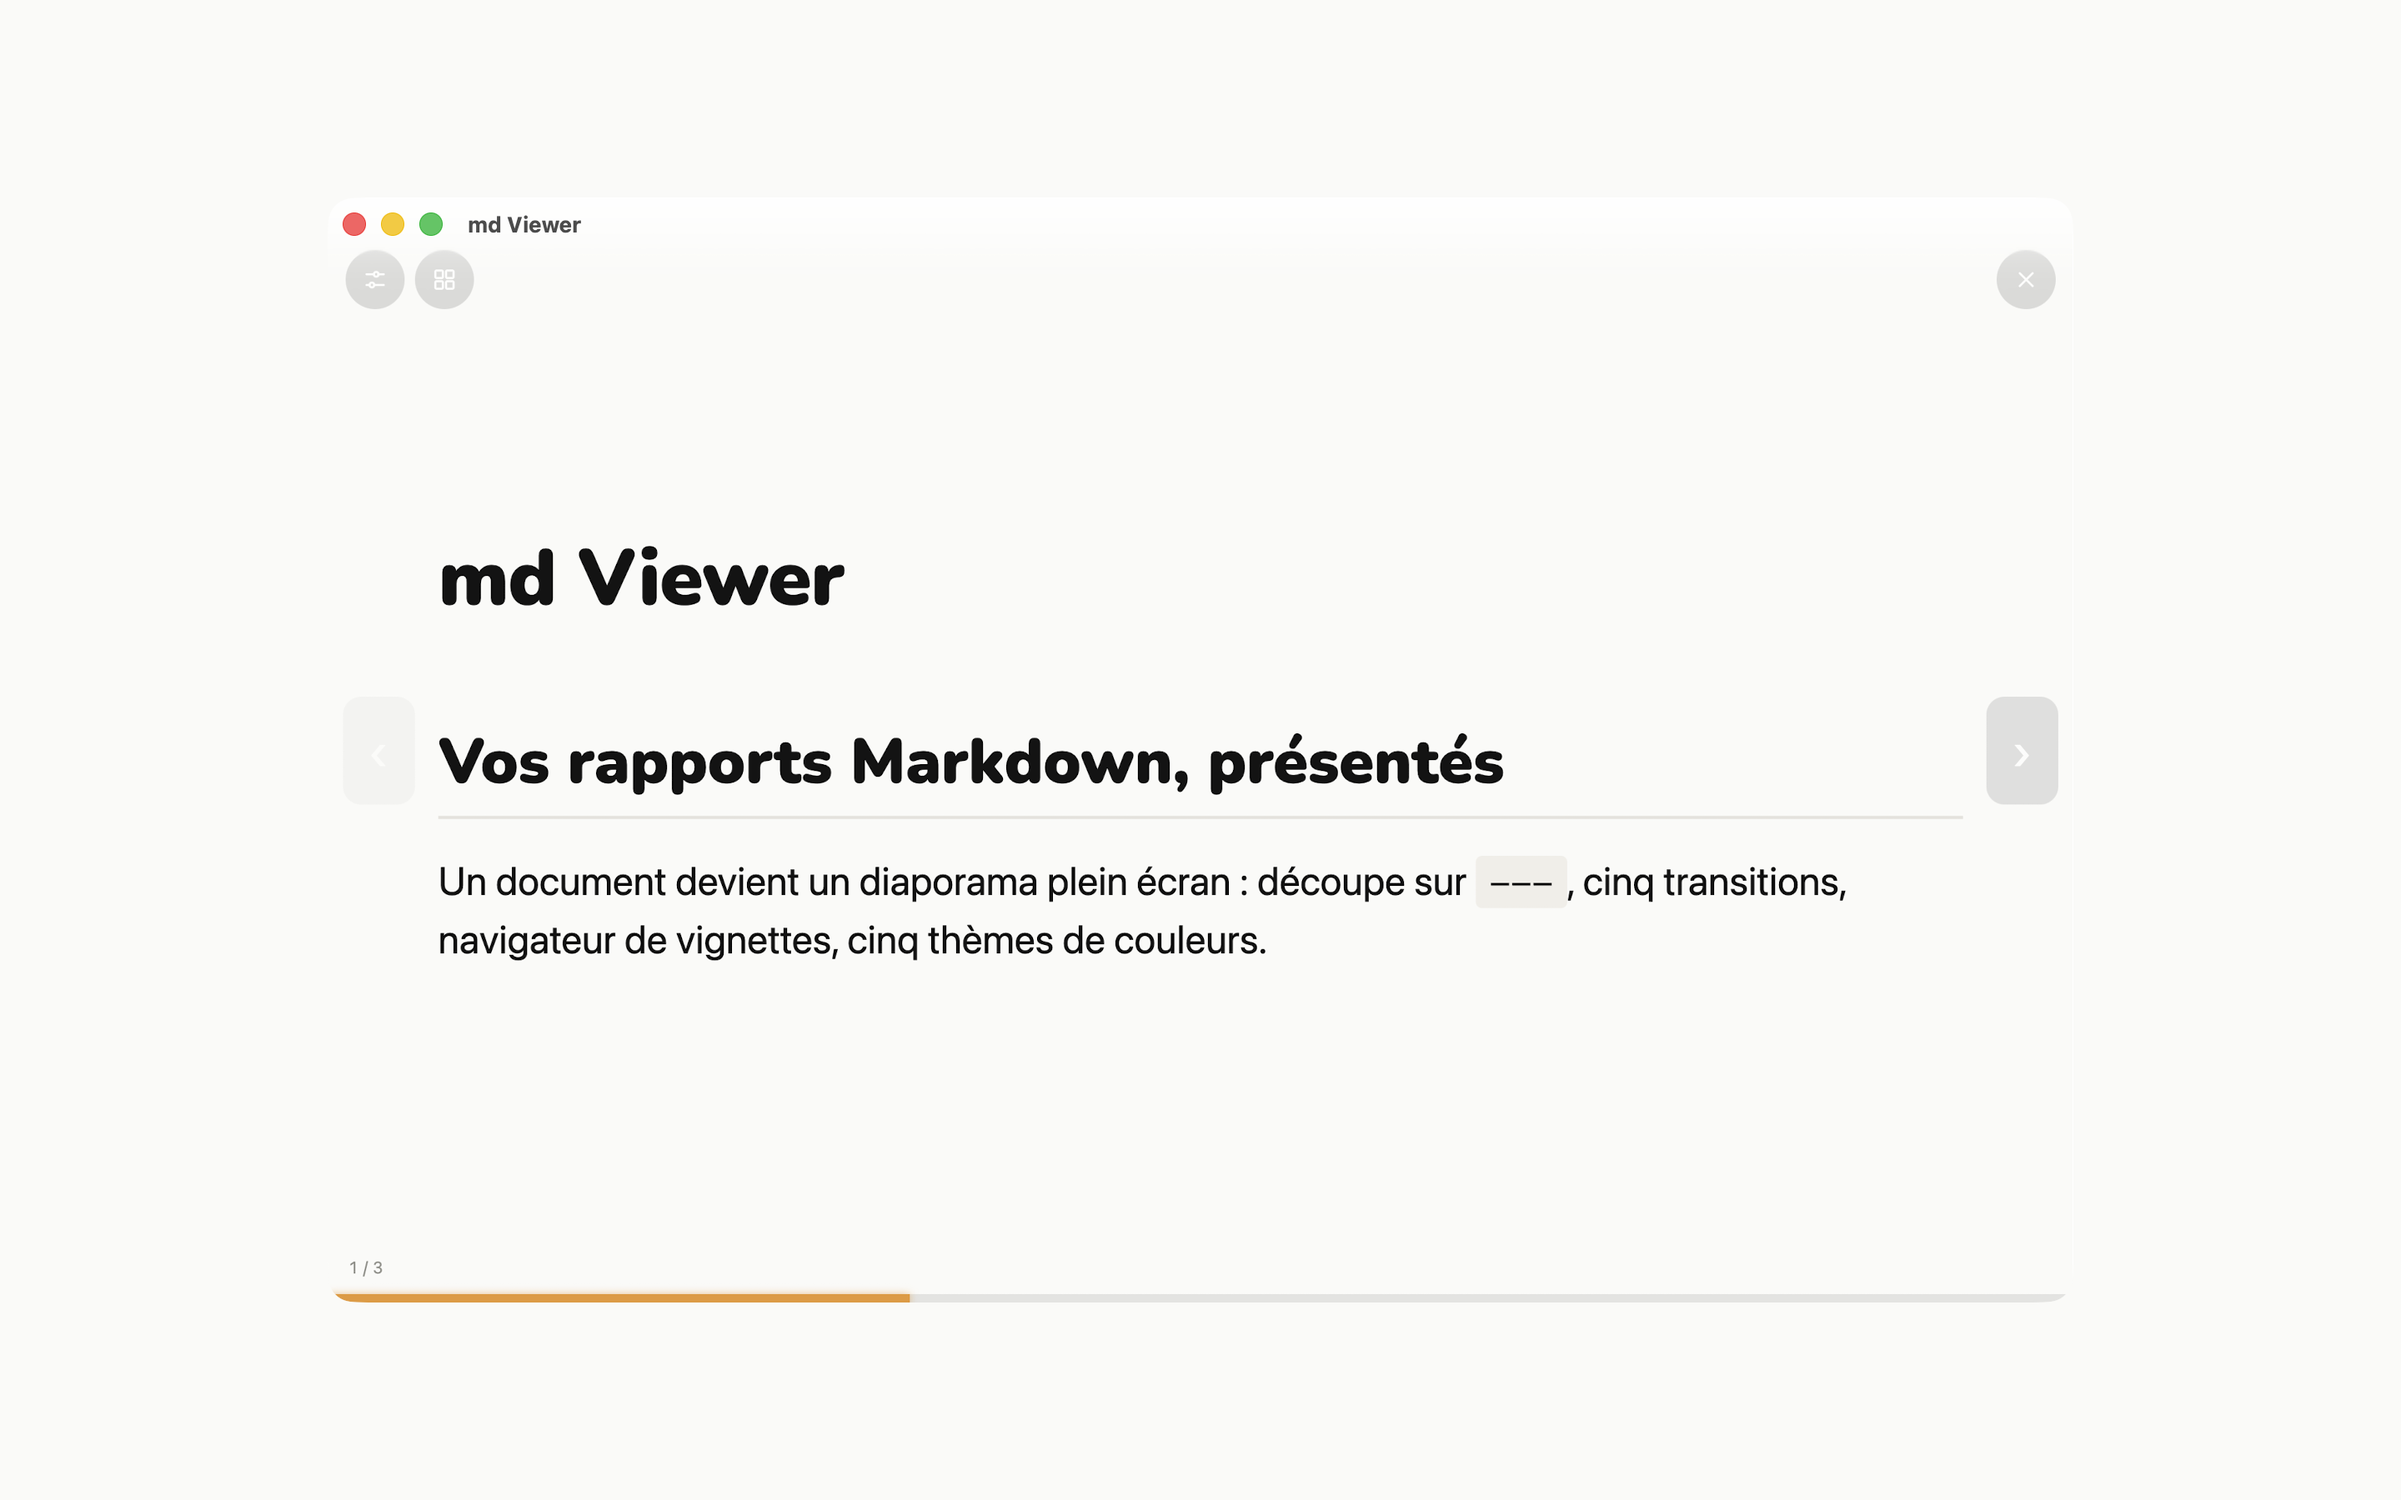
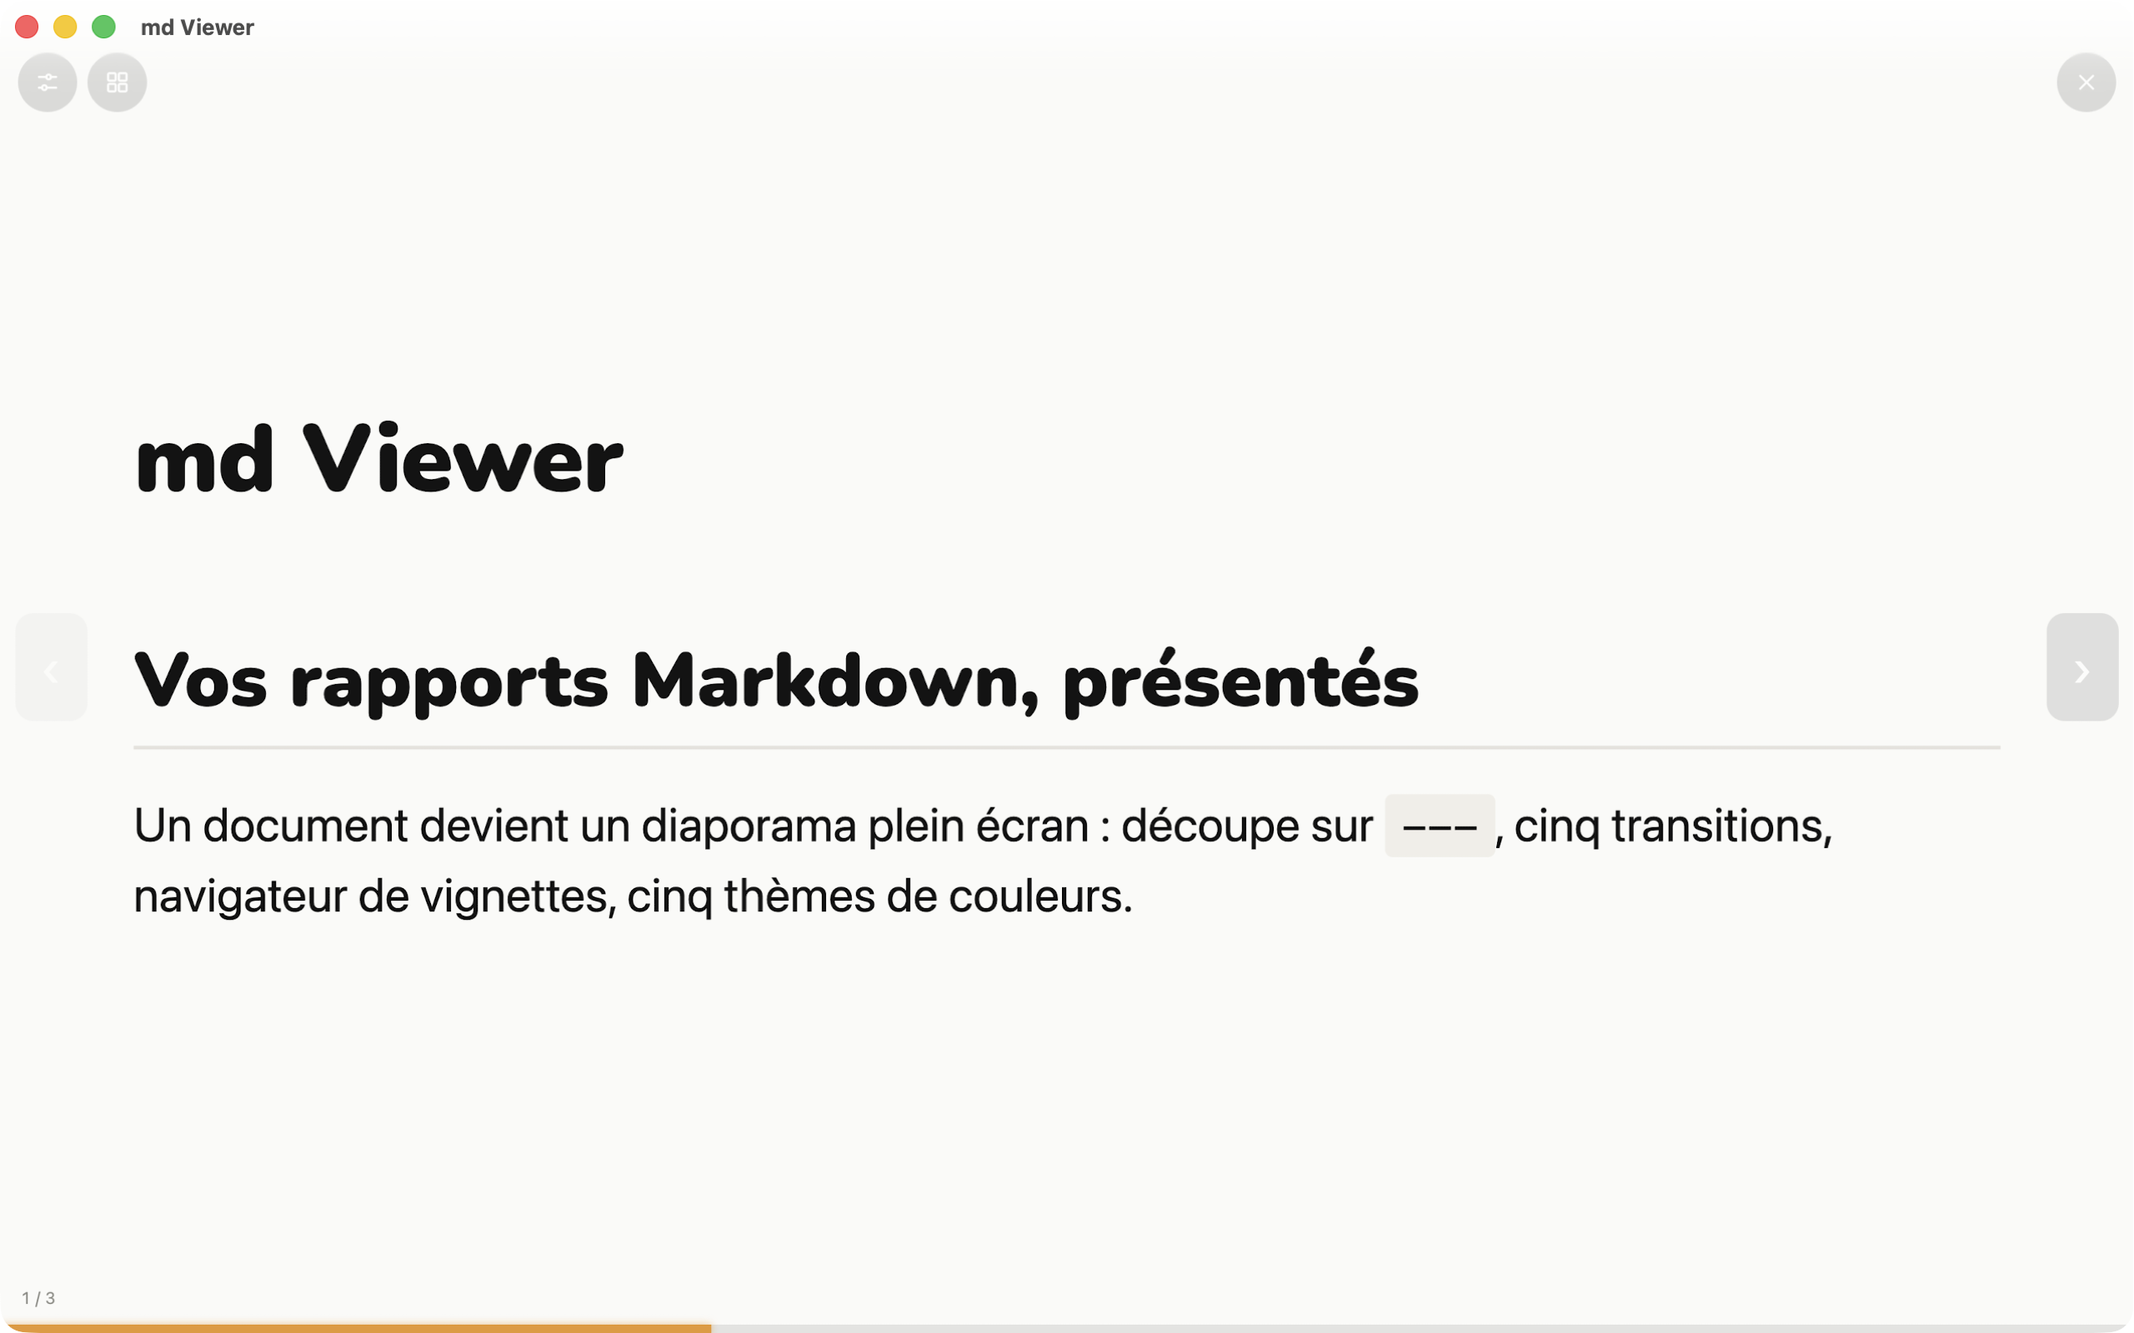
fix(captures): la fenêtre Mac remplit enfin le cadre
Un point ne vaut pas partout deux pixels : sur cet écran en résolution ajustée il
en vaut 1,54. Viser « 1440 × 900 points = 2880 × 1800 pixels » donnait donc une
fenêtre de 2094 × 1326, que sips complétait en crème jusqu'à la taille demandée —
47 % de chaque capture Mac était du fond vide, et l'app s'y affichait aux trois
quarts de sa taille.

Le harnais prend maintenant la taille en points (« OKIA_SHOT_SIZE=1673x1046 »),
le script la déduit de l'écran — la plus grande fenêtre 16:10 tenant sous la barre
des menus — et la capture descend vers 2560×1600, une taille acceptée par Apple,
plutôt que d'être agrandie : agrandir l'aurait rendue floue.

Les douze captures Mac sont désormais plein cadre.

diff --git a/OKiaMarkdownViewer/Views/RootView.swift b/OKiaMarkdownViewer/Views/RootView.swift
@@ -82,9 +82,14 @@ struct RootView: View {
                 windowScene.sizeRestrictions?.minimumSize = CGSize(width: 480, height: 600)
                 windowScene.title = "md Viewer"
                 #if DEBUG
-                // Screenshot harness: pin the window to a fixed size for pixel-exact captures.
-                if ProcessInfo.processInfo.environment["OKIA_SHOT_SIZE"] != nil {
-                    let fixed = CGSize(width: 1360, height: 860)
+                // Harnais de capture : fenêtre figée, pour une capture aux pixels près.
+                // La valeur donne la taille en points, « 1660x1036 » — l'écran de capture
+                // décide de ce qui tient, et un point ne vaut pas partout le même nombre de
+                // pixels. Sans valeur lisible, on garde l'ancienne taille.
+                if let demande = ProcessInfo.processInfo.environment["OKIA_SHOT_SIZE"] {
+                    let parts = demande.split(separator: "x").compactMap { Double($0) }
+                    let fixed = parts.count == 2 ? CGSize(width: parts[0], height: parts[1])
+                                                 : CGSize(width: 1360, height: 860)
                     windowScene.sizeRestrictions?.minimumSize = fixed
                     windowScene.sizeRestrictions?.maximumSize = fixed
                 }

diff --git a/store/screenshots.md b/store/screenshots.md
@@ -9,7 +9,7 @@ sont tenues à jour, `fr` et `en` ; les scènes vivent dans `store/scenes/<langu
 |---|---|---|
 | `screenshots/iphone-6.9/` | **1320×2868** | lecteur · Mermaid · carte · diaporama · discussion IA |
 | `screenshots/ipad-13/`    | **2064×2752** | lecteur · Mermaid · carte · diaporama · discussion IA |
-| `screenshots/mac/`        | **2880×1800** | les mêmes, plus le résumé IA et une question posée |
+| `screenshots/mac/`        | **2560×1600** | les mêmes, plus le résumé IA et une question posée |
 
 Une seule scène reste réservée au Mac : le **résumé**. Le simulateur annonce Apple
 Intelligence disponible — il emprunte le modèle du Mac hôte — mais la génération y échoue
@@ -22,7 +22,13 @@ langue) sont le jeu de juillet, livré avec 1.1.0 : fonds de carte CARTO, scène
 quels — ils sont conservés le temps de décider si ces trois scènes reviennent.
 
 - **Headless** : iPhone/iPad via `simctl` (framebuffer natif), Mac Catalyst via
-  `screencapture` de la fenêtre puis normalisation `sips` (fond crème #FAFAF8).
+  `screencapture` de la fenêtre, recadrée au format 16:10 puis ramenée à 2560×1600.
+- ⚠ **Un point ne vaut pas partout deux pixels.** Sur un écran en résolution ajustée il en
+  vaut 1,54 : viser « 1440 × 900 points = 2880 × 1800 pixels » donnait une fenêtre de
+  2094 × 1326 que `sips` complétait en crème — la moitié de l'image était du fond. Le script
+  déduit maintenant la plus grande fenêtre 16:10 qui tient sous la barre des menus, la passe
+  à l'app par `OKIA_SHOT_SIZE=<largeur>x<hauteur>` (en points), et descend vers une taille
+  acceptée par Apple plutôt que d'agrandir — un agrandissement rendrait la capture floue.
 - Le script **rend la machine dans l'état où il l'a trouvée** : taille de texte et cadre de
   fenêtre sont relus avant, réécrits après.
 
@@ -32,7 +38,7 @@ quels — ils sont conservés le temps de décider si ces trois scènes revienne
 |---|---|
 | `OKIA_RENDER_CONTENT` / `OKIA_RENDER_NAME` | rend ce Markdown directement dans le lecteur |
 | `OKIA_UI_LANG` | fixe la langue de l'interface (`fr`, `en`, `de`, `es`, `it`) |
-| `OKIA_SHOT_SIZE` | taille de fenêtre Mac |
+| `OKIA_SHOT_SIZE` | taille de la fenêtre Mac, en points : `1673x1046` |
 | `OKIA_PRESENT` | ouvre le diaporama au lancement |
 | `OKIA_AI=summary\|chat` | ouvre la feuille de résumé ou de discussion |
 | `OKIA_AI_QUESTION` | pose cette question dans la discussion |
